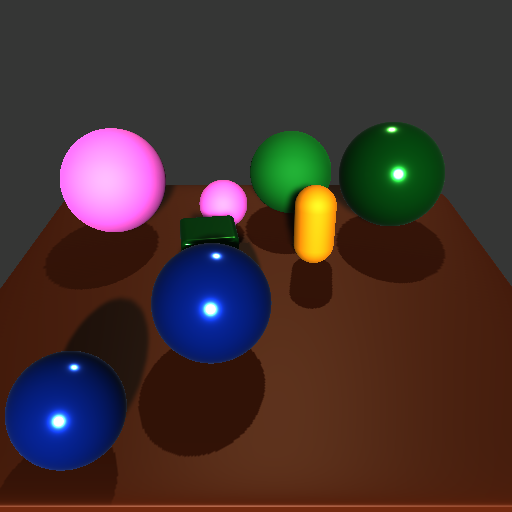
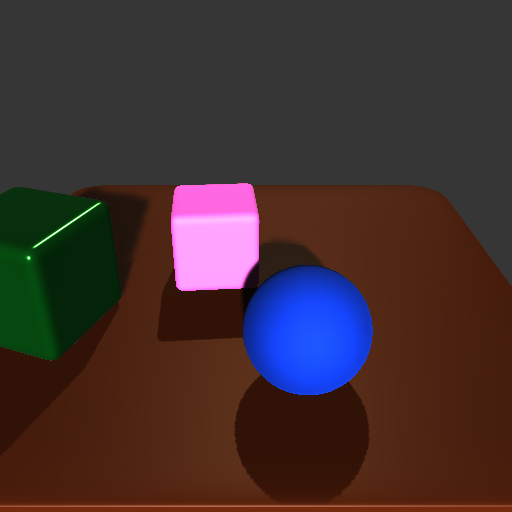
add random objects

diff --git a/Assets/Scripts/VisualObjs.cs b/Assets/Scripts/VisualObjs.cs
@@ -9,7 +9,8 @@ using Object = UnityEngine.Object;
 
 public partial class VisualObjs : MonoBehaviour
 {
-    static int OBJ_NUM = 7;
+    static int RANDOM_OBJ_NUM = 3;
+    private static int FRAMELOOP = 10;
     int MAX_NUM_TRIES = 50;
     float TABLE_WIDTH_BASE = 1.5F;
     float TABLE_LENGTH_BASE = 1.5F;
@@ -46,8 +47,11 @@ public partial class VisualObjs : MonoBehaviour
     private Camera cam;
     public GameObject tableModel;
 
-    List<GameObject> modelInsts = new List<GameObject>(new GameObject[OBJ_NUM]);
-    GameObject tableInst;
+    // List<GameObject> modelInsts = new List<GameObject>(new GameObject[OBJ_NUM]);
+    List<GameObject> randomInsts = new List<GameObject>(new GameObject[RANDOM_OBJ_NUM]);
+    List<GameObject> ruleInsts = new List<GameObject>(new GameObject[RANDOM_OBJ_NUM]);
+    private GameObject targetInst;
+    private GameObject tableInst;
 
 
     private int frames = 0;
@@ -70,7 +74,7 @@ public partial class VisualObjs : MonoBehaviour
     string root_path;
 
     List<GameObject> models;
-
+    List<Obj3D> obj3Ds = new List<Obj3D>();
 
     // Start is called before the first frame update
     void Start()
@@ -117,48 +121,50 @@ public partial class VisualObjs : MonoBehaviour
         }
 
         // save the scene data if it is a new scene
-        if (newScene == true)
+        if (frames % FRAMELOOP == FRAMELOOP - 1 && newScene)
         {
             Calibration camera0 = getCameraMatrix();
             DepthMap depthMap0 = CaptureDepth("depth0");
             CaptureNormal("normal0", camera0.R);
             CaptureScene("image");
-            writeDataFileOneView("data0", modelInsts, camera0, depthMap0);
+            writeDataFileOneView("data0", randomInsts, camera0, depthMap0);
             environmentMap.SetTexture("_Tex", danceRoomEnvironment);
             newScene = false;
             fileCounter++;
         }
 
         // render the scene
-        if (frames % 5 == 0 && fileCounter < maxFileCounter)
+        if (frames % FRAMELOOP == 0 && fileCounter < maxFileCounter)
         {
             // change configurations if necessary
-            SceneData = new SceneStruct(OBJ_NUM, fileCounter);
+            SceneData = new SceneStruct(RANDOM_OBJ_NUM, fileCounter);
 
-            for (int i = 0; i < OBJ_NUM; i++)
+            if (targetInst != null) Destroy(targetInst);
+            for (int i = 0; i < RANDOM_OBJ_NUM; i++)
             {
-                if (modelInsts[i] != null) Destroy(modelInsts[i]);
+                if (ruleInsts[i] != null) Destroy(ruleInsts[i]);
+            }
+
+            for (int i = 0; i < RANDOM_OBJ_NUM; i++)
+            {
+                if (randomInsts[i] != null) Destroy(randomInsts[i]);
             }
 
             if (tableInst != null) Destroy(tableInst);
 
             int envIdx = new System.Random().Next(0, environments.Count);
             environmentMap.SetTexture("_Tex", danceRoomEnvironment);
-            if (frames % 5 == 0) modelIdx = (modelIdx + 1) % models.Count;
+            if (frames % FRAMELOOP == 0) modelIdx = (modelIdx + 1) % models.Count;
 
             // instantiate the table
             Quaternion rotation = Quaternion.Euler(UnityEngine.Random.Range((float)0, (float)0),
                 UnityEngine.Random.Range((float)-150, (float)0), UnityEngine.Random.Range((float)-0, (float)0));
 
             Vector3 scale = new Vector3(table_length, table_height, table_width);
-            // tableInst = Instantiate(tableModel, table.transform.position, rotation);
             table.transform.localScale = scale;
 
-            // table.GetComponent<MeshRenderer>().material = materials[3];
-
             // instantiate the objects on the table
-            modelInsts = addRandomObjs();
-
+            renderObjsRandomly();
             newScene = true;
         }
 
@@ -171,22 +177,21 @@ public partial class VisualObjs : MonoBehaviour
         }
     }
 
+    void renderObjsRandomly()
+    {
+        // ruleInsts = addRuleObjs();
+        randomInsts = addRandomObjs();
+    }
+
     List<GameObject> addRandomObjs()
     {
-        List<GameObject> objInsts = new List<GameObject>(new GameObject[OBJ_NUM]);
-
+        List<GameObject> objInsts = new List<GameObject>(new GameObject[RANDOM_OBJ_NUM]);
         List<Obj3D> obj3Ds = new List<Obj3D>();
-        // add capsule to the list
-        Obj3D capsule3D;
-        capsule3D.p = cursor.transform.position;
-        capsule3D.radius = cursor.transform.localScale.x;
-        obj3Ds.Add(capsule3D);
-        for (int i = 0; i < OBJ_NUM; i++)
+        for (int i = 0; i < RANDOM_OBJ_NUM; i++)
         {
             int num_tries = 0;
             float new_scale;
             Obj3D new_obj_3D;
-
             // choose a random new model
             GameObject new_model = models[UnityEngine.Random.Range(0, models.Count)];
 
@@ -195,7 +200,7 @@ public partial class VisualObjs : MonoBehaviour
             {
                 num_tries += 1;
                 // exceed the maximum trying time
-                if (num_tries > MAX_NUM_TRIES) return addRandomObjs();
+                if (num_tries > MAX_NUM_TRIES) renderObjsRandomly();
                 // choose new size and position
                 new_scale = UnityEngine.Random.Range(MINIMUM_SCALE_RANGE, MAXIMUM_SCALE_RANGE) * scale_factor;
                 new_obj_3D.radius = new_scale * UNIFY_RADIUS;
@@ -237,7 +242,7 @@ public partial class VisualObjs : MonoBehaviour
             objData.Shape = objInsts[i].name;
             objData.Size = new_obj_3D.radius;
             objData.Position = objInsts[i].transform.position;
-            objData.Material = objInsts[i].GetComponent<MeshRenderer>().material.name.Replace(" (Instance)","");
+            objData.Material = objInsts[i].GetComponent<MeshRenderer>().material.name.Replace(" (Instance)", "");
             SceneData.Objects[i] = objData;
         }
 
@@ -260,7 +265,7 @@ public partial class VisualObjs : MonoBehaviour
 
         objInst.name = new_model.name;
         objInst.transform.localScale = new Vector3(scale, scale, scale);
-        
+
         return objInst;
     }
 
@@ -308,10 +313,11 @@ public partial class VisualObjs : MonoBehaviour
         image.ReadPixels(new Rect(0, 0, cam.targetTexture.width, cam.targetTexture.height), 0, 0);
         image.Apply();
 
-        for (int i = 0; i < OBJ_NUM; i++)
+        for (int i = 0; i < RANDOM_OBJ_NUM; i++)
         {
-            modelInsts[i].SetActive(false);
+            randomInsts[i].SetActive(false);
         }
+        
 
 
         cam.RenderWithShader(depthShader, "RenderType");
@@ -320,9 +326,9 @@ public partial class VisualObjs : MonoBehaviour
         spinCubeImage.ReadPixels(new Rect(0, 0, cam.targetTexture.width, cam.targetTexture.height), 0, 0);
         spinCubeImage.Apply();
 
-        for (int i = 0; i < OBJ_NUM; i++)
+        for (int i = 0; i < RANDOM_OBJ_NUM; i++)
         {
-            modelInsts[i].SetActive(true);
+            randomInsts[i].SetActive(true);
         }
 
         // environmentMap.SetTexture("_Tex", env);
@@ -385,9 +391,9 @@ public partial class VisualObjs : MonoBehaviour
         image.ReadPixels(new Rect(0, 0, cam.targetTexture.width, cam.targetTexture.height), 0, 0);
         image.Apply();
 
-        for (int i = 0; i < OBJ_NUM; i++)
+        for (int i = 0; i < RANDOM_OBJ_NUM; i++)
         {
-            modelInsts[i].SetActive(false);
+            randomInsts[i].SetActive(false);
         }
 
         cam.RenderWithShader(normalShader, "RenderType");
@@ -395,9 +401,9 @@ public partial class VisualObjs : MonoBehaviour
             false);
         cubeImage.ReadPixels(new Rect(0, 0, cam.targetTexture.width, cam.targetTexture.height), 0, 0);
         cubeImage.Apply();
-        for (int i = 0; i < OBJ_NUM; i++)
+        for (int i = 0; i < RANDOM_OBJ_NUM; i++)
         {
-            modelInsts[i].SetActive(true);
+            randomInsts[i].SetActive(true);
         }
 
         // environmentMap.SetTexture("_Tex", env);
@@ -459,7 +465,7 @@ public partial class VisualObjs : MonoBehaviour
 
 
         String objectData = "\"objects\":[";
-        for (int i = 0; i < OBJ_NUM; i++)
+        for (int i = 0; i < RANDOM_OBJ_NUM; i++)
         {
             objectData += "{" +
                           "\"id\":" + SceneData.Objects[i].Id + "," +
@@ -472,7 +478,7 @@ public partial class VisualObjs : MonoBehaviour
                           (float)SceneData.Objects[i].Position[2] + "," +
                           "]" +
                           "}";
-            if (i != OBJ_NUM - 1)
+            if (i != RANDOM_OBJ_NUM - 1)
             {
                 objectData += ",";
             }

diff --git a/Assets/Scripts/Cursor.cs b/Assets/Scripts/Cursor.cs
@@ -6,7 +6,7 @@ using UnityEngine;
 
 public class Cursor : MonoBehaviour
 {
-    static int OBJ_NUM = 7;
+    static int OBJ_NUM = 3;
     int MAX_NUM_TRIES = 50;
     float TABLE_WIDTH_BASE = 1.5F;
     float TABLE_LENGTH_BASE = 1.5F;
